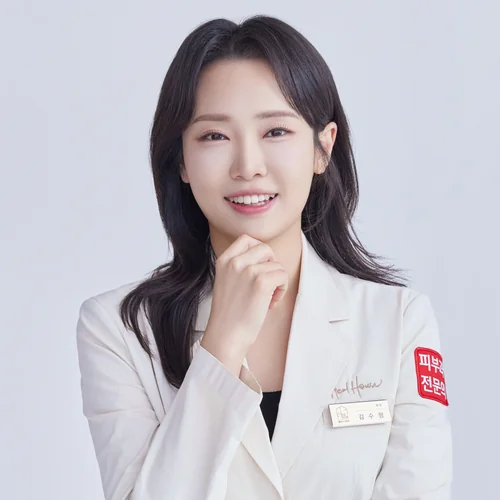
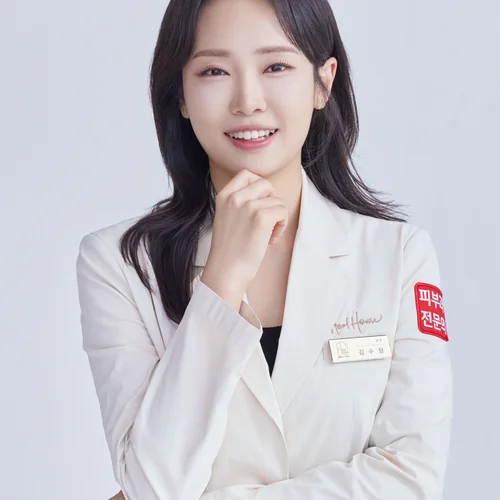
사진 머리 위 여백 + 카드 이름만 + doctors 페이지 폭 확장 + 안내 문구
- 모든 원장 사진 cy 0.30→0.36 재크롭 (머리 위 여백 확보)
- 원장 카드: 이름만 (뒤 "원장" 제거) + "피부과 전문의"
- doctors 페이지: 안내 "피부텐텐의 피부과 전문의들이 직접 답변합니다."
- 데스크탑 doctors 페이지 폭 1080px (akd-members 스타일),
  900px+ 4열 그리드
- 캐시 버스터 v=5

diff --git a/doctors.html b/doctors.html
@@ -9,11 +9,11 @@
   <link rel="preconnect" href="https://fonts.googleapis.com">
   <link rel="preconnect" href="https://fonts.gstatic.com" crossorigin>
   <link href="https://fonts.googleapis.com/css2?family=Noto+Sans+KR:wght@400;500;600;700;800&display=swap" rel="stylesheet">
-  <link rel="stylesheet" href="css/style.css?v=4">
+  <link rel="stylesheet" href="css/style.css?v=5">
   <link rel="icon" type="image/svg+xml" href="images/logo.svg">
   <link rel="apple-touch-icon" href="images/logo.svg">
 </head>
-<body>
+<body class="page-doctors">
   <header class="site-header">
     <div class="header-inner">
       <a href="./" class="logo" aria-label="피부텐텐 홈">
@@ -57,8 +57,8 @@
 
   <div class="toast" id="toast"></div>
 
-  <script src="js/data.js?v=4"></script>
-  <script src="js/search.js?v=4"></script>
-  <script src="js/app.js?v=4"></script>
+  <script src="js/data.js?v=5"></script>
+  <script src="js/search.js?v=5"></script>
+  <script src="js/app.js?v=5"></script>
 </body>
 </html>

diff --git a/js/app.js b/js/app.js
@@ -843,14 +843,14 @@
     root.innerHTML = `
       <header class="doctors-header">
         <h2>피부과 전문의</h2>
-        <p class="doctors-sub">힐하우스피부과 원장님들이 직접 답변합니다</p>
+        <p class="doctors-sub">피부텐텐의 피부과 전문의들이 직접 답변합니다.</p>
       </header>
       <div class="doctor-grid">
         ${list.map((d, i) => `
           <a href="doctors.html?slug=${d.slug}" class="doctor-card" data-doctor-link style="animation-delay:${i*40}ms">
             <img class="doctor-photo" src="${d.photo}" alt="${d.name} 원장" loading="lazy">
             <div class="doctor-card-body">
-              <div class="doctor-card-name">${escapeHtml(d.name)} 원장</div>
+              <div class="doctor-card-name">${escapeHtml(d.name)}</div>
               <div class="doctor-card-title">피부과 전문의</div>
             </div>
           </a>

diff --git a/saved.html b/saved.html
@@ -10,7 +10,7 @@
   <link rel="preconnect" href="https://fonts.googleapis.com">
   <link rel="preconnect" href="https://fonts.gstatic.com" crossorigin>
   <link href="https://fonts.googleapis.com/css2?family=Noto+Sans+KR:wght@400;500;600;700;800&family=Playfair+Display:wght@700&display=swap" rel="stylesheet">
-  <link rel="stylesheet" href="css/style.css?v=4">
+  <link rel="stylesheet" href="css/style.css?v=5">
   <link rel="icon" type="image/svg+xml" href="images/logo.svg">
   <link rel="apple-touch-icon" href="images/logo.svg">
 </head>
@@ -59,8 +59,8 @@
 
   <div class="toast" id="toast"></div>
 
-  <script src="js/data.js?v=4"></script>
-  <script src="js/search.js?v=4"></script>
-  <script src="js/app.js?v=4"></script>
+  <script src="js/data.js?v=5"></script>
+  <script src="js/search.js?v=5"></script>
+  <script src="js/app.js?v=5"></script>
 </body>
 </html>

diff --git a/index.html b/index.html
@@ -27,7 +27,7 @@
   <link rel="preconnect" href="https://fonts.gstatic.com" crossorigin>
   <link href="https://fonts.googleapis.com/css2?family=Noto+Sans+KR:wght@400;500;600;700;800&display=swap" rel="stylesheet">
 
-  <link rel="stylesheet" href="css/style.css?v=4">
+  <link rel="stylesheet" href="css/style.css?v=5">
   <link rel="icon" type="image/svg+xml" href="images/logo.svg">
   <link rel="apple-touch-icon" href="images/logo.svg">
 
@@ -142,8 +142,8 @@
 
   <div class="toast" id="toast"></div>
 
-  <script src="js/data.js?v=4"></script>
-  <script src="js/search.js?v=4"></script>
-  <script src="js/app.js?v=4"></script>
+  <script src="js/data.js?v=5"></script>
+  <script src="js/search.js?v=5"></script>
+  <script src="js/app.js?v=5"></script>
 </body>
 </html>

diff --git a/css/style.css b/css/style.css
@@ -734,6 +734,10 @@ main {
   color: var(--text-secondary);
   margin: 0;
 }
+/* 원장 페이지는 main 폭을 더 넓게 (akd-members 스타일) */
+.page-doctors main { max-width: 1080px; }
+.page-doctors .site-header .header-inner { max-width: 1080px; }
+
 .doctor-grid {
   display: grid;
   grid-template-columns: repeat(2, 1fr);
@@ -742,6 +746,9 @@ main {
 }
 @media (min-width: 600px) {
   .doctor-grid { grid-template-columns: repeat(3, 1fr); gap: 16px; }
+}
+@media (min-width: 900px) {
+  .doctor-grid { grid-template-columns: repeat(4, 1fr); gap: 18px; }
 }
 .doctor-card {
   display: flex;
